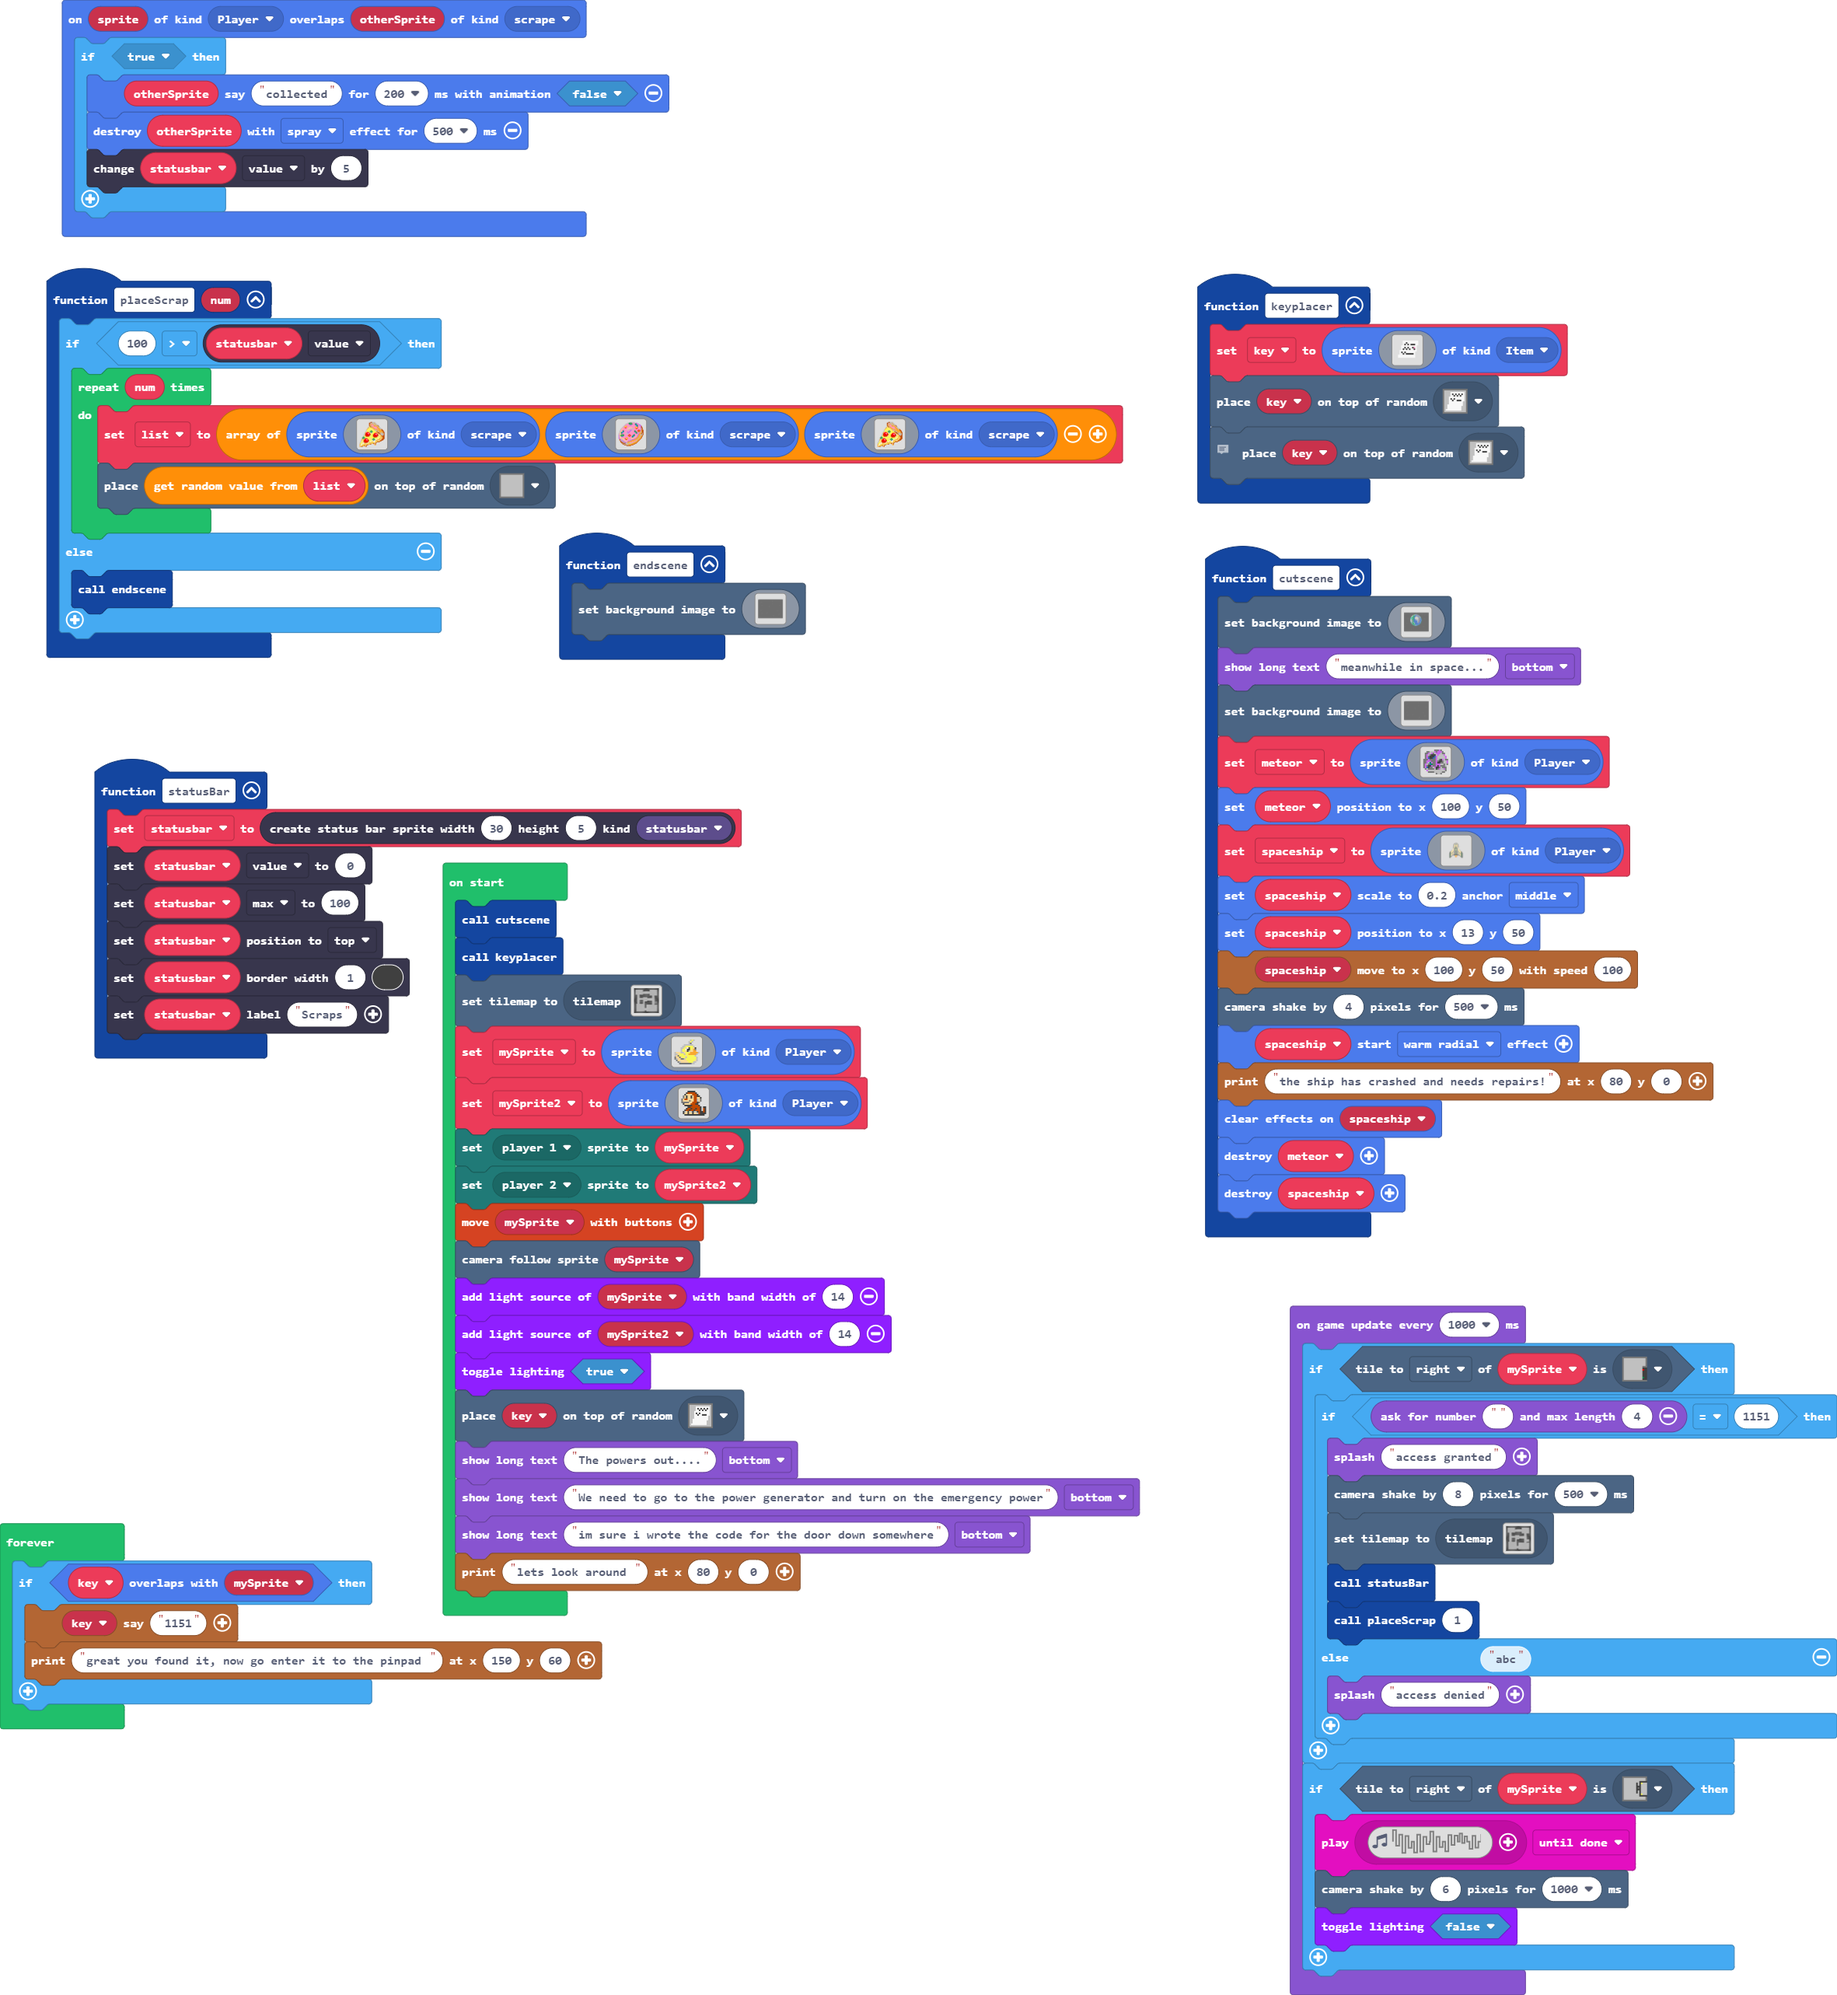
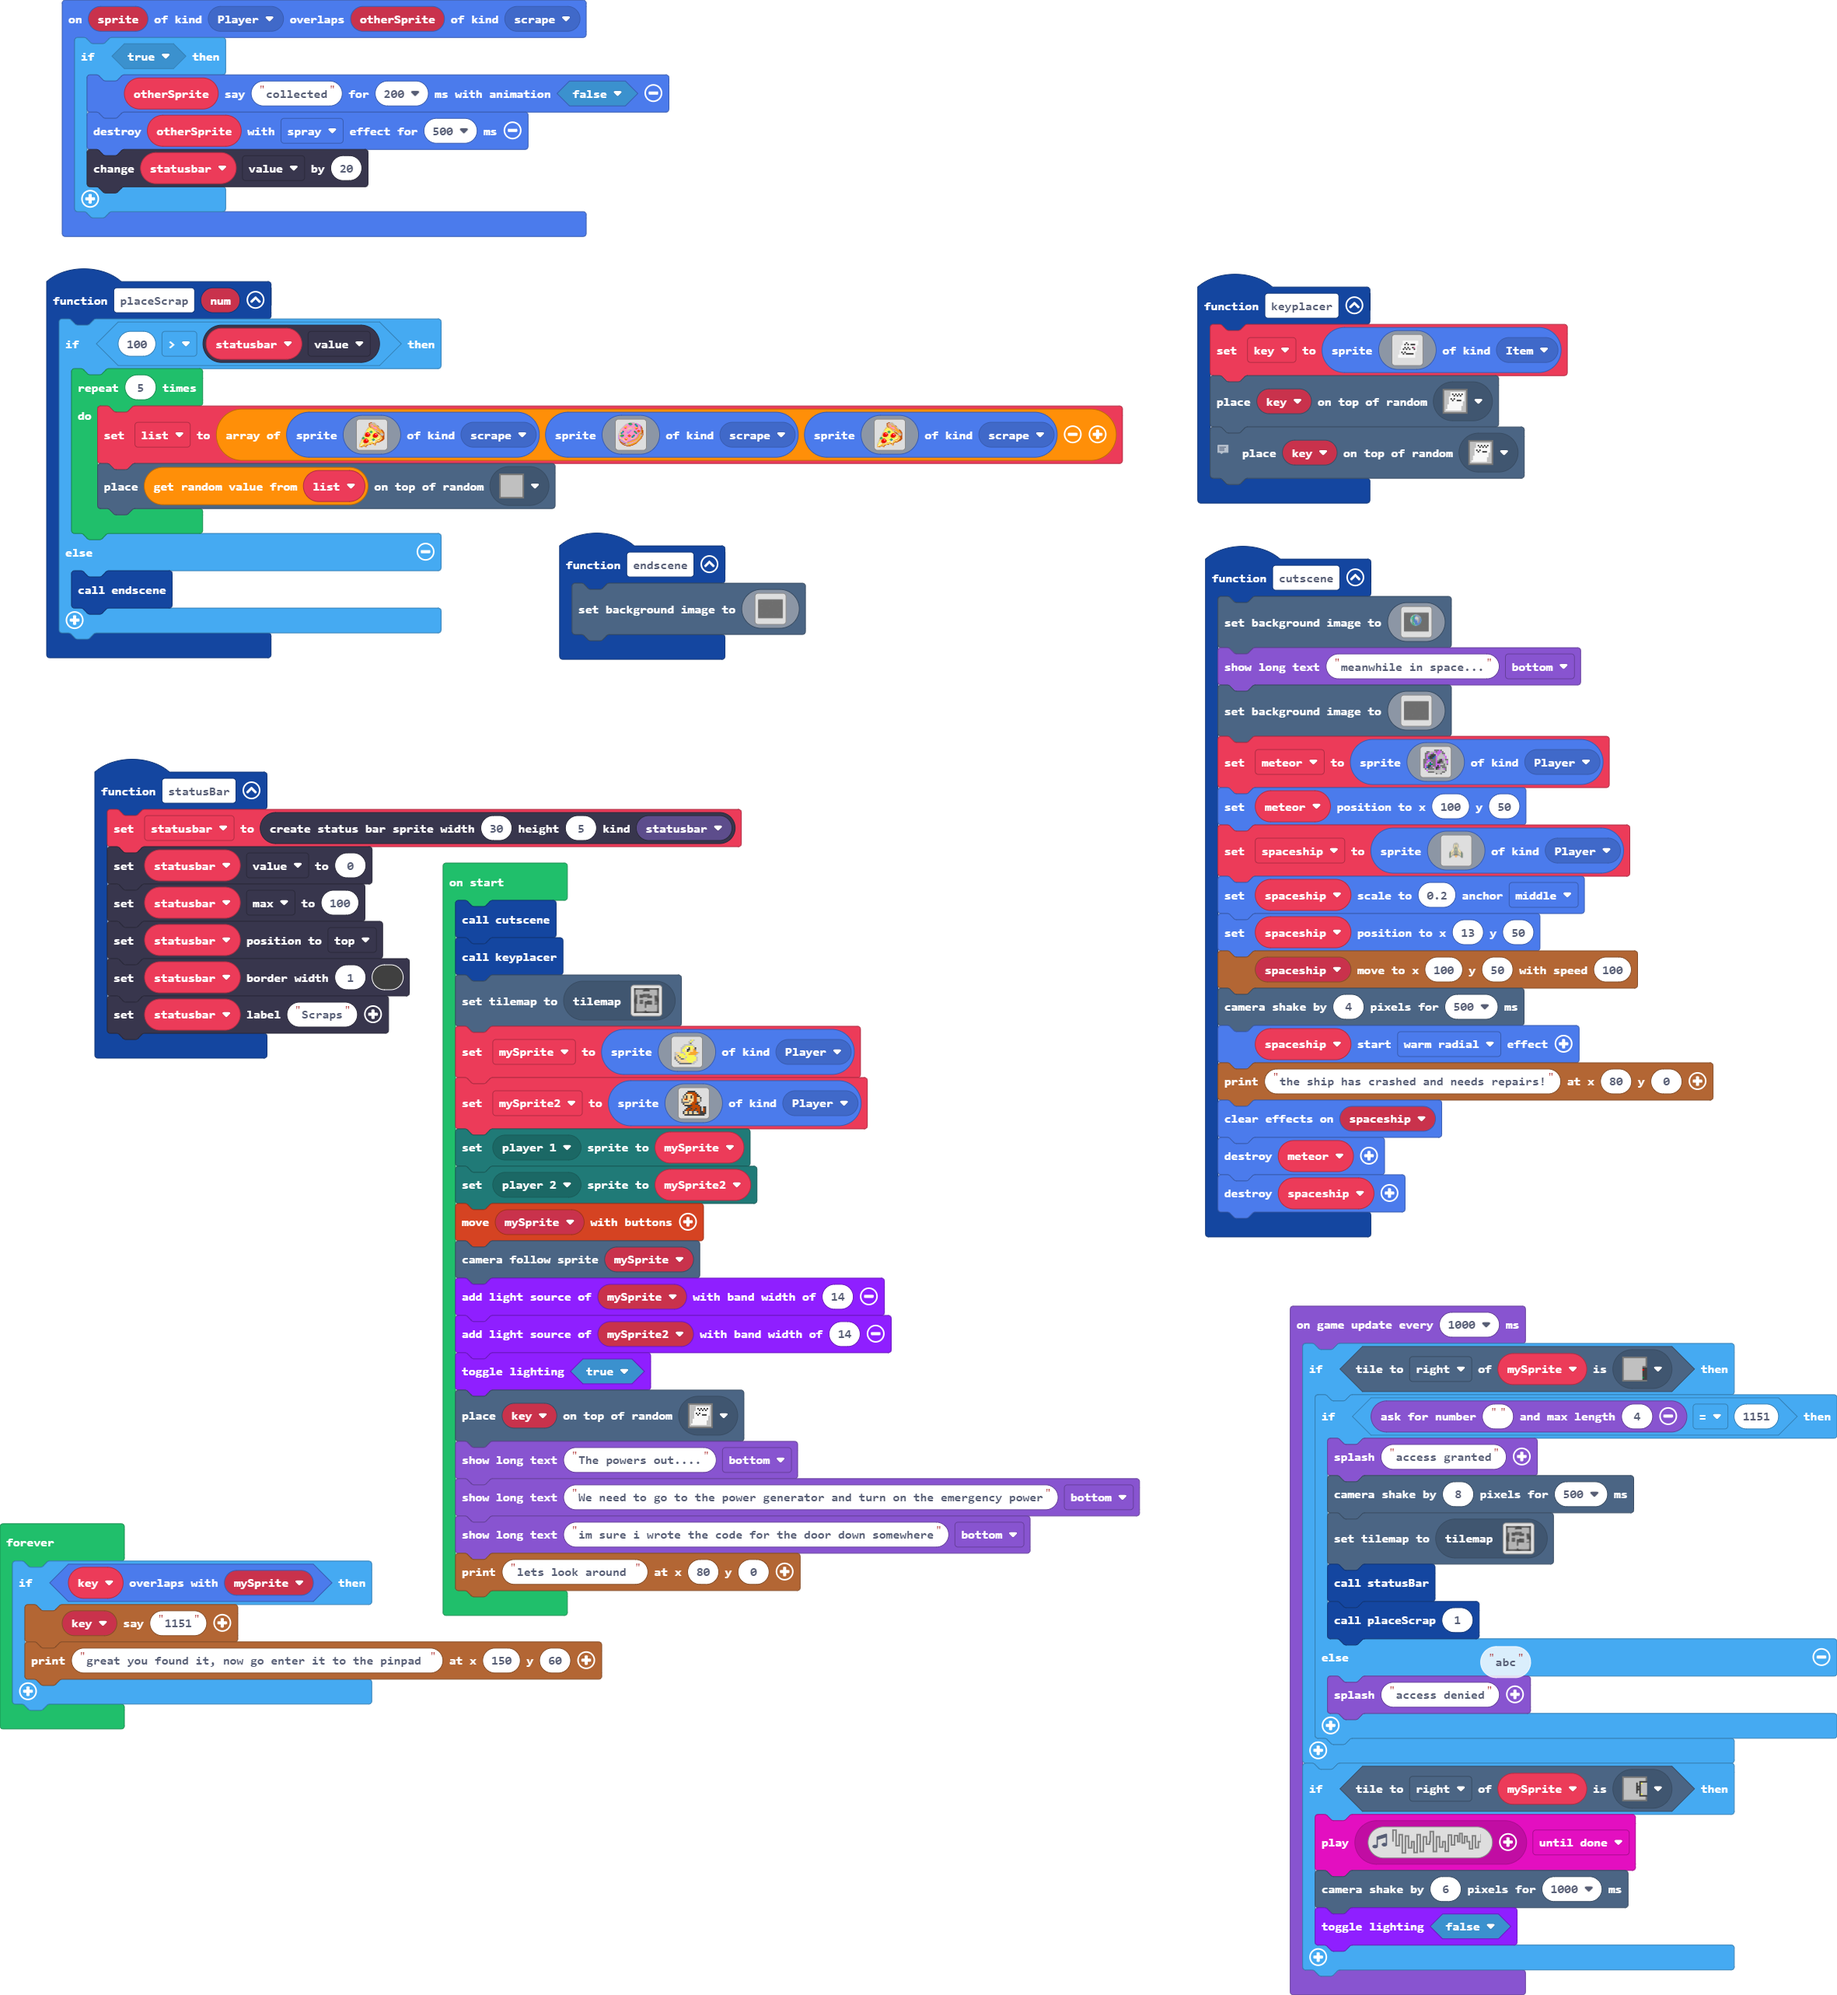
functionupdate

diff --git a/main.ts b/main.ts
@@ -27,7 +27,7 @@ sprites.onOverlap(SpriteKind.Player, SpriteKind.scrape, function (sprite, otherS
     if (true) {
         otherSprite.sayText("collected", 200, false)
         sprites.destroy(otherSprite, effects.spray, 500)
-        statusbar.value += 5
+        statusbar.value += 20
     }
 })
 function cutscene () {
@@ -49,7 +49,7 @@ function cutscene () {
 }
 function placeScrap (num: number) {
     if (100 > statusbar.value) {
-        for (let index = 0; index < num; index++) {
+        for (let index = 0; index < 5; index++) {
             list = [sprites.create(assets.image`tattered metal sheet`, SpriteKind.scrape), sprites.create(img`
                 ..............bbbbbbb...........
                 ...........bb66663333baa........
@@ -136,7 +136,7 @@ game.onUpdateInterval(1000, function () {
             scene.cameraShake(8, 500)
             tiles.setCurrentTilemap(tilemap`lemap`)
             statusBar()
-            placeScrap(0)
+            placeScrap(1)
         } else {
             game.splash("access denied")
         }
